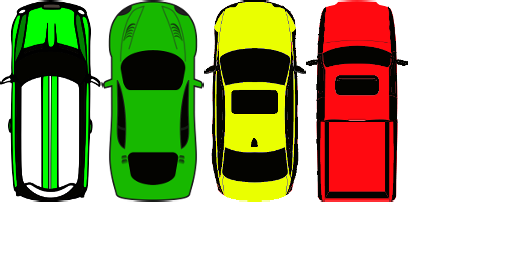
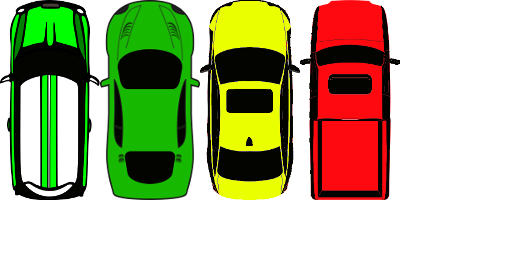
Move vehicles

Changed region(s): [[0.0, 0.0, 0.8125, 0.8125]]

diff --git a/core/src/xyz/rustybus/lanes/ScrollHandler.java b/core/src/xyz/rustybus/lanes/ScrollHandler.java
@@ -4,21 +4,25 @@ import com.badlogic.gdx.Gdx;
 import com.badlogic.gdx.graphics.Texture;
 import com.badlogic.gdx.graphics.g2d.SpriteBatch;
 import com.badlogic.gdx.graphics.g2d.TextureRegion;
-
 import java.util.Random;
 
 /**
  * Created by kienme on 5/12/15.
  *
+ * Change scroll_speed regularly
+ * Change vehicle_gap with scroll_speed
+ * Change side_speed with scroll_speed
  */
 
 public class ScrollHandler {
-    static int SCROLL_SPEED=-20;
+    static final int NO_OF_VEHICLES=4;
+    static int VEHICLE_GAP=800;
+    static int SCROLL_SPEED=-40;
     static float w, h;
 
     Vehicle vehicles[];
     Asphalt asphalt1, asphalt2, asphalt3;
-    Random random;
+    //Random random;
 
     ScrollHandler() {
         w=Lanes.VIEWPORT_WIDTH;
@@ -28,22 +32,25 @@ public class ScrollHandler {
         asphalt1=new Asphalt(0, 0, asphaltTexture);
         asphalt2=new Asphalt(0, asphalt1.getY()+h, asphaltTexture);
         asphalt3=new Asphalt(0, asphalt2.getY()+h, asphaltTexture);
-        random=new Random();
+        //random=new Random();
 
         Texture vehiclesTexture=new Texture("vehicles.png");
-        vehicles=new Vehicle[4];
+        vehicles=new Vehicle[NO_OF_VEHICLES];
         for(int i=0; i<vehicles.length; ++i) {
-            Side s=random.nextInt(2)==0?Side.LEFT:Side.RIGHT;
-            vehicles[i] = new Vehicle(s, new TextureRegion(vehiclesTexture, 100*i, 0, 100, 200));
+            //Side s=random.nextInt(2)==0?Side.LEFT:Side.RIGHT;
+            vehicles[i] = new Vehicle(i*VEHICLE_GAP+VEHICLE_GAP, new TextureRegion(vehiclesTexture, 100*i, 0, 100, 200));
         }
 
     }
 
     public void update() {
-        //Handle positions of vehicles
         asphalt1.moveY(SCROLL_SPEED);
         asphalt2.moveY(SCROLL_SPEED);
         asphalt3.moveY(SCROLL_SPEED);
+
+        for(int i=0; i<vehicles.length; ++i) {
+            vehicles[i].moveY(SCROLL_SPEED/2);
+        }
     }
 
     public void render(SpriteBatch batch) {
@@ -52,7 +59,7 @@ public class ScrollHandler {
         batch.draw(asphalt3.getImage(), asphalt3.getX(), asphalt3.getY(), w, h);
 
         for(int i=0; i<vehicles.length; ++i)
-            batch.draw(vehicles[i].getVehicle(), vehicles[i].getX(), vehicles[i].getY());
+            batch.draw(vehicles[i].getVehicle(), vehicles[i].getX()-50, vehicles[i].getY());
     }
 
     public void dispose() {

diff --git a/core/src/xyz/rustybus/lanes/Vehicle.java b/core/src/xyz/rustybus/lanes/Vehicle.java
@@ -2,6 +2,8 @@ package xyz.rustybus.lanes;
 
 import com.badlogic.gdx.graphics.g2d.TextureRegion;
 
+import java.util.Random;
+
 /**
  * Created by kienme on 5/12/15.
  *
@@ -13,16 +15,30 @@ enum Side {
 
 class Vehicle {
     TextureRegion vehicle;
+    Random random;
     Side side;
     float x, y;
 
-    Vehicle(Side side, TextureRegion region) {
+    Vehicle(float y, TextureRegion region) {
+        random=new Random();
+        side=random.nextInt(2)==0?Side.LEFT:Side.RIGHT;
         vehicle=region;
-        this.side=side;
-        y=0;
+        this.y=y;
         x=Lanes.VIEWPORT_WIDTH/4;
         if(side==Side.RIGHT)
             x*=3;
+    }
+
+    public void moveY(float yDistance) {
+        y+=yDistance;
+        if((y+vehicle.getRegionHeight())<0) {
+            y = ScrollHandler.NO_OF_VEHICLES * ScrollHandler.VEHICLE_GAP;
+            side=random.nextInt(2)==0?Side.LEFT:Side.RIGHT;
+            x=Lanes.VIEWPORT_WIDTH/4;
+            if(side==Side.RIGHT)
+                x*=3;
+            //Change texture to random vehicle
+        }
     }
 
     public float getX() {
